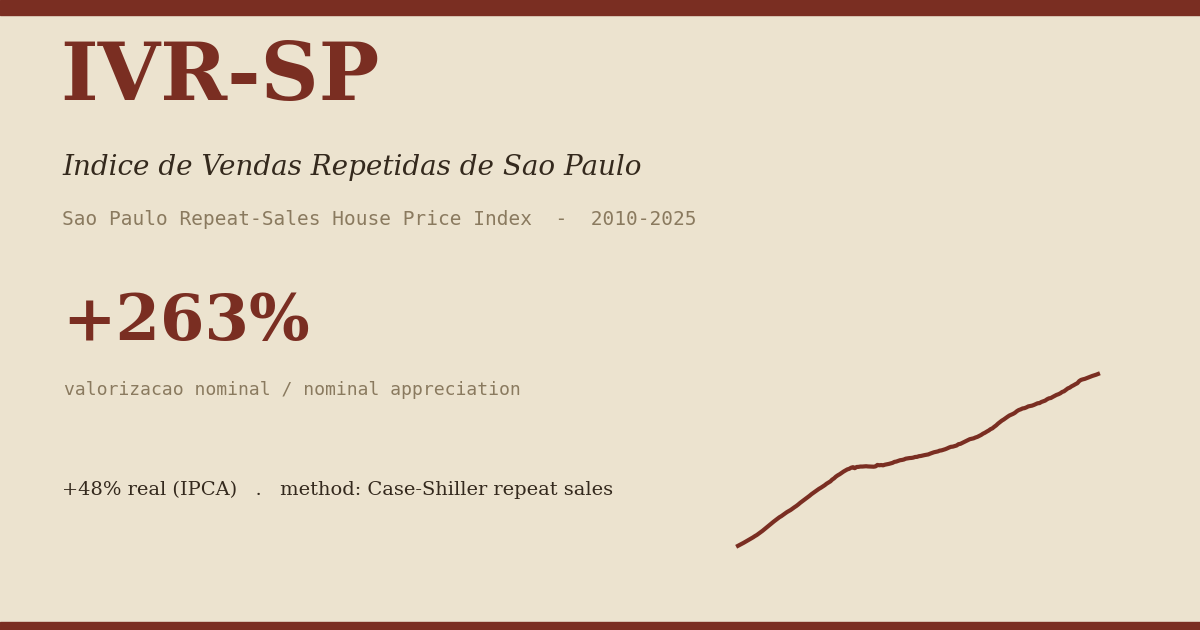
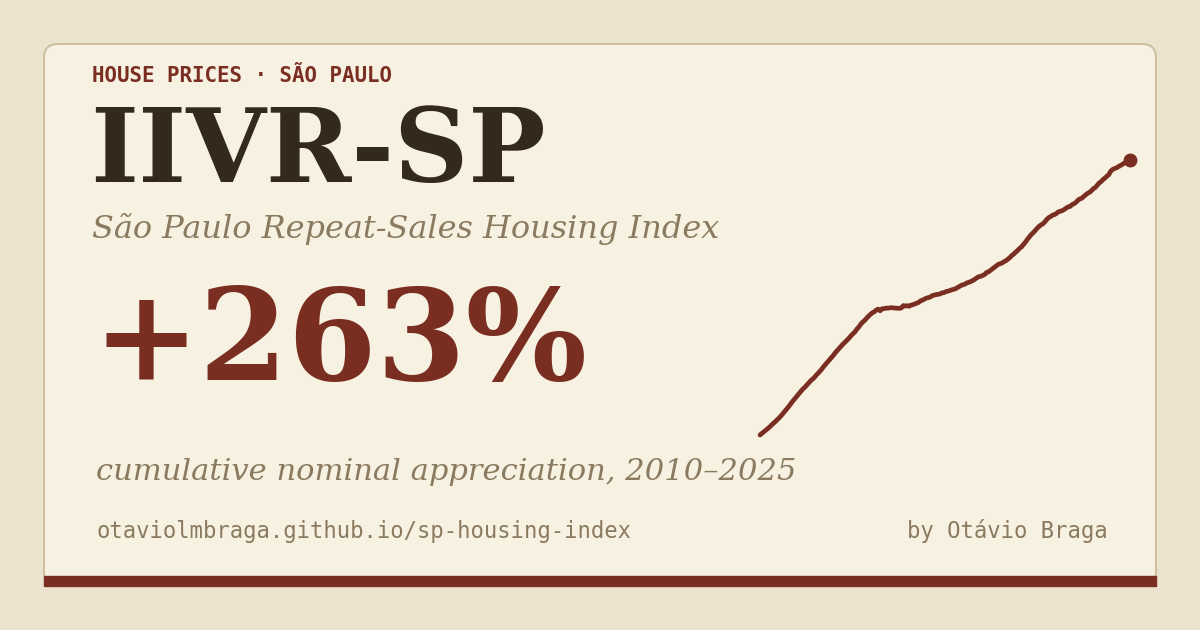
Rename to IIVR-SP, enlarge type, add chart title and byline link
- Rename the index to IIVR-SP (Índice Imobiliário de Vendas Repetidas)
  across the page, docs, citation and social card; file paths unchanged
- Bump base font size and let the About text fill its box
- Add a "Visualizing the index" title to the chart card
- Enlarge the disclaimer and drop the redundant footer line
- Link the Otávio Braga byline to otaviolmbraga.github.io
- Add a reproducible make_og_image.py and regenerate og-image.png

diff --git a/index.html b/index.html
@@ -3,10 +3,10 @@
 <head>
 <meta charset="utf-8" />
 <meta name="viewport" content="width=device-width, initial-scale=1" />
-<title>IVR-SP — Índice de Vendas Repetidas de São Paulo</title>
+<title>IIVR-SP — Índice Imobiliário de Vendas Repetidas de São Paulo</title>
 <meta name="description" content="Repeat-sales house price index (Case-Shiller method) for São Paulo, benchmarked against IPCA, CDI, FipeZAP and the Ibovespa (2010–2025). Open data and documents." />
 <meta name="author" content="Otávio Braga" />
-<meta name="keywords" content="São Paulo house prices, repeat-sales index, Case-Shiller, IVR-SP, ITBI, real estate Brazil, housing index" />
+<meta name="keywords" content="São Paulo house prices, repeat-sales index, Case-Shiller, IIVR-SP, ITBI, real estate Brazil, housing index" />
 <meta name="robots" content="index,follow" />
 <link rel="canonical" href="https://otaviolmbraga.github.io/sp-housing-index/" />
 
@@ -15,15 +15,15 @@
 
 <!-- Open Graph / Twitter -->
 <meta property="og:type" content="website" />
-<meta property="og:site_name" content="IVR-SP" />
-<meta property="og:title" content="IVR-SP — São Paulo Repeat-Sales House Price Index" />
+<meta property="og:site_name" content="IIVR-SP" />
+<meta property="og:title" content="IIVR-SP — São Paulo Repeat-Sales House Price Index" />
 <meta property="og:description" content="A Case-Shiller repeat-sales house price index for São Paulo (2010–2025), benchmarked against IPCA, CDI, FipeZAP and the Ibovespa. Open data." />
 <meta property="og:url" content="https://otaviolmbraga.github.io/sp-housing-index/" />
 <meta property="og:image" content="https://otaviolmbraga.github.io/sp-housing-index/og-image.png" />
 <meta property="og:image:width" content="1200" />
 <meta property="og:image:height" content="630" />
 <meta name="twitter:card" content="summary_large_image" />
-<meta name="twitter:title" content="IVR-SP — São Paulo Repeat-Sales House Price Index" />
+<meta name="twitter:title" content="IIVR-SP — São Paulo Repeat-Sales House Price Index" />
 <meta name="twitter:description" content="A Case-Shiller repeat-sales house price index for São Paulo (2010–2025). Open data and documents." />
 <meta name="twitter:image" content="https://otaviolmbraga.github.io/sp-housing-index/og-image.png" />
 
@@ -32,8 +32,8 @@
 {
   "@context":"https://schema.org",
   "@type":"Dataset",
-  "name":"IVR-SP — São Paulo Repeat-Sales House Price Index",
-  "alternateName":"Índice de Vendas Repetidas de São Paulo",
+  "name":"IIVR-SP — São Paulo Repeat-Sales House Price Index",
+  "alternateName":"Índice Imobiliário de Vendas Repetidas de São Paulo",
   "description":"A repeat-sales (Case-Shiller method) house price index for the city of São Paulo, built from ITBI property-transfer-tax microdata and benchmarked against IPCA, CDI, FipeZAP and the Ibovespa, 2010–2025.",
   "url":"https://otaviolmbraga.github.io/sp-housing-index/",
   "sameAs":"https://github.com/otaviolmbraga/sp-housing-index",
@@ -70,7 +70,7 @@
   html,body{margin:0;padding:0}
   body{
     font-family:"EB Garamond",Georgia,"Times New Roman",serif;
-    color:var(--ink); line-height:1.55; font-size:17px;
+    color:var(--ink); line-height:1.6; font-size:19px;
     background:
       radial-gradient(1200px 600px at 20% -10%, #f3ecd9 0%, rgba(243,236,217,0) 60%),
       radial-gradient(1000px 700px at 100% 0%, #e8ddc3 0%, rgba(232,221,195,0) 55%),
@@ -98,8 +98,8 @@
   h2{font-family:"Playfair Display",serif;font-weight:700;font-size:1.4rem;margin:0 0 4px}
 
   /* about */
-  .about{font-size:1.06rem}
-  .about p{margin:0 0 12px;max-width:74ch}
+  .about{font-size:1.12rem}
+  .about p{margin:0 0 14px}
   .about p:last-child{margin-bottom:0}
   .about a{color:var(--accent);text-decoration:none;border-bottom:1px solid var(--rule)}
   .about a:hover{border-color:var(--accent)}
@@ -161,11 +161,12 @@
 
   /* disclaimer */
   .disclaimer{margin-top:22px;border-left:3px solid var(--accent);background:rgba(122,46,34,.05);padding:12px 18px;border-radius:0 3px 3px 0}
-  .disclaimer p{margin:0;color:var(--muted);font-size:.82rem;font-style:italic}
+  .disclaimer p{margin:0;color:var(--muted);font-size:.95rem;font-style:italic}
 
   /* byline */
   .byline{font-family:"Space Mono",monospace;font-size:.72rem;letter-spacing:.08em;color:var(--muted);margin:10px 0 0}
-  .byline b{color:var(--accent);font-weight:700}
+  .byline a{color:var(--accent);font-weight:700;text-decoration:none;border-bottom:1px solid var(--rule)}
+  .byline a:hover{border-color:var(--accent)}
 
   /* dataset hero */
   .data-hero{display:flex;align-items:center;justify-content:space-between;gap:24px;flex-wrap:wrap;
@@ -189,7 +190,6 @@
   .exp{border:1px solid var(--rule);background:var(--paper);border-radius:2px;padding:5px 12px;font-family:"Space Mono",monospace;font-size:.64rem;letter-spacing:.08em;text-transform:uppercase;color:var(--muted);cursor:pointer}
   .exp:hover{border-color:var(--accent);color:var(--accent)}
 
-  footer{color:var(--muted);font-size:.9rem;font-style:italic;margin-top:30px;border-top:3px double var(--rule);padding-top:18px}
 
   @media (max-width:760px){
     h1{font-size:2rem}
@@ -233,6 +233,8 @@
   </section>
 
   <section class="card">
+    <p class="kicker" data-i18n="chart_kicker"></p>
+    <h2 data-i18n="chart_title" style="margin-bottom:16px"></h2>
     <div class="controls">
       <div class="field">
         <span class="lab" data-i18n="period"></span>
@@ -262,7 +264,7 @@
 
     <div class="plotgrid">
       <div>
-        <div id="chart" role="img" aria-label="Interactive line chart comparing the IVR-SP house price index with IPCA, CDI, FipeZAP and the Ibovespa."></div>
+        <div id="chart" role="img" aria-label="Interactive line chart comparing the IIVR-SP house price index with IPCA, CDI, FipeZAP and the Ibovespa."></div>
         <div class="chart-foot">
           <p class="caption" data-i18n="chart_caption" style="flex:1"></p>
           <button class="exp" id="expBtn" data-i18n="export"></button>
@@ -294,8 +296,6 @@
   </section>
 
   <section class="disclaimer"><p id="disc"></p></section>
-
-  <footer><span data-i18n="footer"></span></footer>
 </div>
 
 <script>
@@ -304,7 +304,7 @@ const COLORS={cs_sp:"#7a2e22",ipca:"#a6791f",cdi:"#4f6b4a",fipezap:"#6a4b62",ibo
 const WIDTHS={cs_sp:3.6,ipca:1.4,cdi:1.4,fipezap:1.4,ibovespa:1.3};
 const SERIES=(window.CS_DATA&&window.CS_DATA.series)||["cs_sp","ipca","cdi","fipezap","ibovespa"];
 const ROWS=(window.CS_DATA&&window.CS_DATA.rows)||[];
-const LABELS={cs_sp:"IVR-SP",ipca:"IPCA",cdi:"CDI",fipezap:"FipeZAP",ibovespa:"Ibovespa"};
+const LABELS={cs_sp:"IIVR-SP",ipca:"IPCA",cdi:"CDI",fipezap:"FipeZAP",ibovespa:"Ibovespa"};
 
 const SRC_URL="https://prefeitura.sp.gov.br/web/fazenda/w/acesso_a_informacao/31501";
 
@@ -312,12 +312,13 @@ const SRC_URL="https://prefeitura.sp.gov.br/web/fazenda/w/acesso_a_informacao/31
 const I18N={
   pt:{
     eyebrow:"Preços de imóveis · São Paulo",
-    title:"IVR-SP — Índice de Vendas Repetidas de São Paulo",
+    title:"IIVR-SP — Índice Imobiliário de Vendas Repetidas de São Paulo",
     subtitle:"Um índice de preços de imóveis por vendas repetidas (método Case-Shiller), a partir de transações efetivas de São Paulo.",
-    byline:"por <b>Otávio Braga</b> · 2010–2025",
+    byline:"por <a href='https://otaviolmbraga.github.io/' target='_blank' rel='noopener'>Otávio Braga</a> · 2010–2025",
     dh_kicker:"Dados abertos",
     dh_num:"2,6 milhões de transações",
     dh_sub:"Microdados tratados do ITBI e 265 mil pares de vendas repetidas — livres para download e uso acadêmico.",
+    chart_kicker:"Explore", chart_title:"Visualizando o índice",
     period:"Período", quick:"Atalhos", view:"Visualização", indices:"Índices",
     view_level:"Nominal", view_real:"Real (IPCA)", view_yoy:"Variação 12m",
     chart_caption:"Séries reindexadas a 100 no início do período. Passe o mouse para ler os valores.",
@@ -328,8 +329,8 @@ const I18N={
     presets:{full:"Tudo", p15:"15 anos", p10:"10 anos", p5:"5 anos"},
     side_title:"Variação acumulada", side_ann:"a.a.", side_note:"Índice e FipeZAP: só preço, sem aluguel; CDI e Ibovespa incluem rendimentos.",
     gloss_kicker:"Entenda os índices",
-    gloss_q:"O que é o IVR-SP?",
-    gloss_a:"O IVR-SP é um índice de preços de imóveis construído pelo método de vendas repetidas (Case-Shiller): acompanha o mesmo imóvel entre duas vendas, isolando a valorização de preço da mudança na composição e na qualidade do que é negociado. É o padrão adotado nos EUA (S&P CoreLogic Case-Shiller) e, aqui, aplicado a transações efetivas de São Paulo.",
+    gloss_q:"O que é o IIVR-SP?",
+    gloss_a:"O IIVR-SP é um índice de preços de imóveis construído pelo método de vendas repetidas (Case-Shiller): acompanha o mesmo imóvel entre duas vendas, isolando a valorização de preço da mudança na composição e na qualidade do que é negociado. É o padrão adotado nos EUA (S&P CoreLogic Case-Shiller) e, aqui, aplicado a transações efetivas de São Paulo.",
     bench:{
       cs_sp:"Preço de venda de imóveis (vendas repetidas).",
       ipca:"Inflação oficial ao consumidor (IBGE).",
@@ -339,9 +340,8 @@ const I18N={
     },
     dl_kicker:"Download", dl_title:"Dados e documentos",
     dl_note:"Os microdados de transações são grandes e disponibilizados apenas para download (compactados).",
-    cite:"Como citar: Braga, Otávio. <em>IVR-SP — Índice de Vendas Repetidas de São Paulo.</em> Dados e documentos sob licença CC BY 4.0.",
+    cite:"Como citar: Braga, Otávio. <em>IIVR-SP — Índice Imobiliário de Vendas Repetidas de São Paulo.</em> Dados e documentos sob licença CC BY 4.0.",
     disc:"Iniciativa em andamento, de caráter informativo. Erros são possíveis; os dados são uma versão tratada da fonte original e podem conter imprecisões. Não me responsabilizo pelo uso das informações — utilize a seu próprio critério.",
-    footer:"Índice construído a partir de microdados do ITBI da cidade de São Paulo, pela metodologia de vendas repetidas (Case-Shiller).",
     about:[
       "Boa parte do que se diz sobre o mercado imobiliário brasileiro vem de percepção, não de dados. Montei este índice para ajudar a mudar isso. A partir dos microdados de ITBI da <a href='"+SRC_URL+"' target='_blank' rel='noopener'>Prefeitura de São Paulo</a> — vendas efetivamente reportadas, não anúncios — construí um índice de vendas repetidas (método Case-Shiller) que, até onde sei, é o primeiro público para São Paulo.",
       "Em geral o índice e o FipeZAP caminham juntos, mas em alguns períodos os preços de venda descolam bastante dos de anúncio. Explore o gráfico abaixo e compare com inflação, CDI e Ibovespa. Deixei os dados tratados para download ao final da página."
@@ -349,12 +349,13 @@ const I18N={
   },
   en:{
     eyebrow:"House prices · São Paulo",
-    title:"IVR-SP — São Paulo Repeat-Sales Index",
+    title:"IIVR-SP — São Paulo Repeat-Sales Index",
     subtitle:"A repeat-sales house price index (Case-Shiller method), built from actual São Paulo property transactions.",
-    byline:"by <b>Otávio Braga</b> · 2010–2025",
+    byline:"by <a href='https://otaviolmbraga.github.io/' target='_blank' rel='noopener'>Otávio Braga</a> · 2010–2025",
     dh_kicker:"Open data",
     dh_num:"2.6 million transactions",
     dh_sub:"Cleaned ITBI microdata and 265k repeat-sales pairs — free to download and use in research.",
+    chart_kicker:"Explore", chart_title:"Visualizing the index",
     period:"Period", quick:"Presets", view:"View", indices:"Indices",
     view_level:"Nominal", view_real:"Real (IPCA)", view_yoy:"Year-over-year",
     chart_caption:"Series rebased to 100 at the start of the period. Hover to read values.",
@@ -365,8 +366,8 @@ const I18N={
     presets:{full:"All", p15:"15 years", p10:"10 years", p5:"5 years"},
     side_title:"Cumulative change", side_ann:"p.a.", side_note:"Index and FipeZAP: price only, excluding rent; CDI and Ibovespa include income.",
     gloss_kicker:"Understanding the indices",
-    gloss_q:"What is the IVR-SP?",
-    gloss_a:"The IVR-SP is a house price index built with the repeat-sales (Case-Shiller) method: it tracks the same property across two sales, separating genuine price appreciation from changes in the mix and quality of what is traded. It is the standard approach in the U.S. (S&P CoreLogic Case-Shiller), applied here to actual São Paulo transactions.",
+    gloss_q:"What is the IIVR-SP?",
+    gloss_a:"The IIVR-SP is a house price index built with the repeat-sales (Case-Shiller) method: it tracks the same property across two sales, separating genuine price appreciation from changes in the mix and quality of what is traded. It is the standard approach in the U.S. (S&P CoreLogic Case-Shiller), applied here to actual São Paulo transactions.",
     bench:{
       cs_sp:"House sale prices (repeat sales).",
       ipca:"Official consumer price inflation (IBGE).",
@@ -376,9 +377,8 @@ const I18N={
     },
     dl_kicker:"Download", dl_title:"Data & documents",
     dl_note:"The transaction microdata are large and provided as a compressed download only.",
-    cite:"How to cite: Braga, Otávio. <em>IVR-SP — São Paulo Repeat-Sales House Price Index.</em> Data and documents under CC BY 4.0.",
+    cite:"How to cite: Braga, Otávio. <em>IIVR-SP — São Paulo Repeat-Sales House Price Index.</em> Data and documents under CC BY 4.0.",
     disc:"An ongoing, informational initiative. Errors are possible; the data are a cleaned version of the original source and may contain inaccuracies. I take no responsibility for how the information is used — use at your own discretion.",
-    footer:"Index built from São Paulo property-transfer-tax (ITBI) microdata using the repeat-sales (Case-Shiller) methodology.",
     about:[
       "Most of what gets said about Brazil's housing market comes from gut feeling rather than data. I built this index to help change that. Starting from the <a href='"+SRC_URL+"' target='_blank' rel='noopener'>City of São Paulo</a>'s ITBI transfer-tax microdata — actual reported sales, not listings — I construct a repeat-sales index (Case-Shiller method) that, to my knowledge, is the first public one for São Paulo.",
       "The index and FipeZAP usually move together, but in some periods sale prices pull away sharply from asking prices. Explore the chart below and compare it with inflation, the CDI and the Ibovespa. I've left the cleaned data available for download at the bottom of the page."
@@ -393,8 +393,8 @@ const DOWNLOADS=[
    t_pt:"Microdados de transações (ITBI)", d_pt:"CSV compactado com as transações usadas para construir o índice.",
    t_en:"Transaction microdata (ITBI)",   d_en:"Compressed CSV of the transactions used to build the index."},
   {kind:"data", url:"data/ivr_sp_index.csv", size:"CSV",
-   t_pt:"Série do índice (IVR-SP)", d_pt:"Níveis mensais e variação em 12m do IVR-SP e dos comparativos (2010–2025).",
-   t_en:"Index series (IVR-SP)",   d_en:"Monthly levels and 12-month change for the IVR-SP and benchmarks (2010–2025)."},
+   t_pt:"Série do índice (IIVR-SP)", d_pt:"Níveis mensais e variação em 12m do IIVR-SP e dos comparativos (2010–2025).",
+   t_en:"Index series (IIVR-SP)",   d_en:"Monthly levels and 12-month change for the IIVR-SP and benchmarks (2010–2025)."},
   {kind:"pdf", url:"docs/data_dictionary.md", size:"MD",
    t_pt:"Dicionário de dados", d_pt:"Descrição (PT/EN) de cada coluna dos microdados de transações.",
    t_en:"Data dictionary",    d_en:"Bilingual (EN/PT) description of every column in the transaction microdata."},

diff --git a/_build/make_og_image.py b/_build/make_og_image.py
@@ -1,0 +1,83 @@
+"""Regenerate og-image.png — the social-share preview card.
+
+Reads data/ivr_sp_index.csv and renders a vintage parchment card showing the
+IIVR-SP name, the cumulative nominal appreciation, and a sparkline.
+Run from the repo root:  python _build/make_og_image.py
+"""
+import csv
+import os
+
+import matplotlib
+matplotlib.use("Agg")
+import matplotlib.pyplot as plt
+from matplotlib.patches import FancyBboxPatch
+
+ROOT = os.path.dirname(os.path.dirname(os.path.abspath(__file__)))
+CSV = os.path.join(ROOT, "data", "ivr_sp_index.csv")
+OUT = os.path.join(ROOT, "og-image.png")
+
+# palette (matches index.html)
+PAPER = "#ece3cf"
+CARD = "#f7f1e1"
+INK = "#34291d"
+ACCENT = "#7a2e22"
+MUTED = "#8a7a5f"
+RULE = "#cdbe9c"
+
+# ---- read series -------------------------------------------------------------
+dates, cs = [], []
+with open(CSV, newline="", encoding="utf-8") as fh:
+    for row in csv.DictReader(fh):
+        dates.append(row["date"])
+        cs.append(float(row["cs_sp"]))
+
+nom = cs[-1] / cs[0] - 1.0
+span = dates[0][:4] + "\u2013" + dates[-1][:4]
+
+# ---- figure ------------------------------------------------------------------
+W, H = 1200, 630
+fig = plt.figure(figsize=(W / 100, H / 100), dpi=100)
+fig.patch.set_facecolor(PAPER)
+ax = fig.add_axes([0, 0, 1, 1])
+ax.set_xlim(0, W)
+ax.set_ylim(0, H)
+ax.axis("off")
+
+# card
+card = FancyBboxPatch((44, 44), W - 88, H - 88,
+                      boxstyle="round,pad=0,rounding_size=14",
+                      linewidth=1.4, edgecolor=RULE, facecolor=CARD)
+ax.add_patch(card)
+ax.add_patch(plt.Rectangle((44, 44), W - 88, 10, color=ACCENT, zorder=3))
+
+serif = {"family": "serif"}
+mono = {"family": "monospace"}
+
+ax.text(92, 548, "HOUSE PRICES \u00b7 S\u00c3O PAULO", color=ACCENT,
+        fontsize=15, fontweight="bold", **mono)
+ax.text(90, 448, "IIVR-SP", color=INK, fontsize=74, fontweight="bold", **serif)
+ax.text(92, 392, "S\u00e3o Paulo Repeat-Sales Housing Index", color=MUTED,
+        fontsize=23, fontstyle="italic", **serif)
+
+# headline number
+ax.text(92, 250, ("+%.0f%%" % (nom * 100)), color=ACCENT,
+        fontsize=92, fontweight="bold", **serif)
+ax.text(96, 150, "cumulative nominal appreciation, " + span,
+        color=MUTED, fontsize=22, fontstyle="italic", **serif)
+
+# sparkline (right side)
+sx0, sx1, sy0, sy1 = 760, 1130, 195, 470
+lo, hi = min(cs), max(cs)
+n = len(cs)
+xs = [sx0 + (sx1 - sx0) * i / (n - 1) for i in range(n)]
+ys = [sy0 + (sy1 - sy0) * (v - lo) / (hi - lo) for v in cs]
+ax.plot(xs, ys, color=ACCENT, linewidth=3.4, solid_capstyle="round")
+ax.plot([xs[-1]], [ys[-1]], "o", color=ACCENT, markersize=9)
+
+ax.text(96, 92, "otaviolmbraga.github.io/sp-housing-index", color=MUTED,
+        fontsize=16, **mono)
+ax.text(1108, 92, "by Ot\u00e1vio Braga", color=MUTED, fontsize=16,
+        ha="right", **mono)
+
+fig.savefig(OUT, facecolor=PAPER)
+print("wrote", OUT, "| nominal", "+%.1f%%" % (nom * 100))

diff --git a/README.md b/README.md
@@ -1,4 +1,4 @@
-# IVR-SP — São Paulo Repeat-Sales Index
+# IIVR-SP — São Paulo Repeat-Sales Index
 
 A repeat-sales house price index (Case-Shiller method) for the city of São Paulo,
 built from ITBI property-transfer-tax microdata and benchmarked against IPCA, CDI,
@@ -16,7 +16,7 @@ separate private repository.
 |------|------------|
 | `index.html` | The interactive page (PT/EN, comparison chart, returns table). Open it by double-clicking, or serve via GitHub Pages. |
 | `data.js` | The monthly index series embedded for the page (`window.CS_DATA`). Auto-generated. |
-| `data/ivr_sp_index.csv` | The monthly IVR-SP index series (levels + 12-month change) and benchmarks, 2010–2025. Committed for direct download/citation. |
+| `data/ivr_sp_index.csv` | The monthly IIVR-SP index series (levels + 12-month change) and benchmarks, 2010–2025. Committed for direct download/citation. |
 | `docs/` | Comments (EN), methodology note PDFs, and the bilingual data dictionary. |
 | `og-image.png` | Social-share preview card (Open Graph / Twitter). |
 | `_build/make_site_data.py` | Regenerates `data.js` and the compressed transaction download. Not needed to view the site. |
@@ -50,7 +50,7 @@ description of every column in the transaction microdata.
 
 ## How to cite
 
-> Braga, Otávio. *IVR-SP — São Paulo Repeat-Sales House Price Index.*
+> Braga, Otávio. *IIVR-SP — São Paulo Repeat-Sales House Price Index.*
 > https://otaviolmbraga.github.io/sp-housing-index/
 
 Machine-readable metadata is in [`CITATION.cff`](CITATION.cff).

diff --git a/docs/data_dictionary.md b/docs/data_dictionary.md
@@ -48,7 +48,7 @@ metres (m²).
 
 ## Notes
 
-- **Coverage / cobertura:** the file spans 2006–2025. The repeat-sales index (IVR-SP)
+- **Coverage / cobertura:** the file spans 2006–2025. The repeat-sales index (IIVR-SP)
   uses only the subset of properties (`sql`) observed in at least two transactions, with
   a minimum 3-year holding period between the two sales.
 - **Cleaning / tratamento:** this is a cleaned derivative of the original municipal
